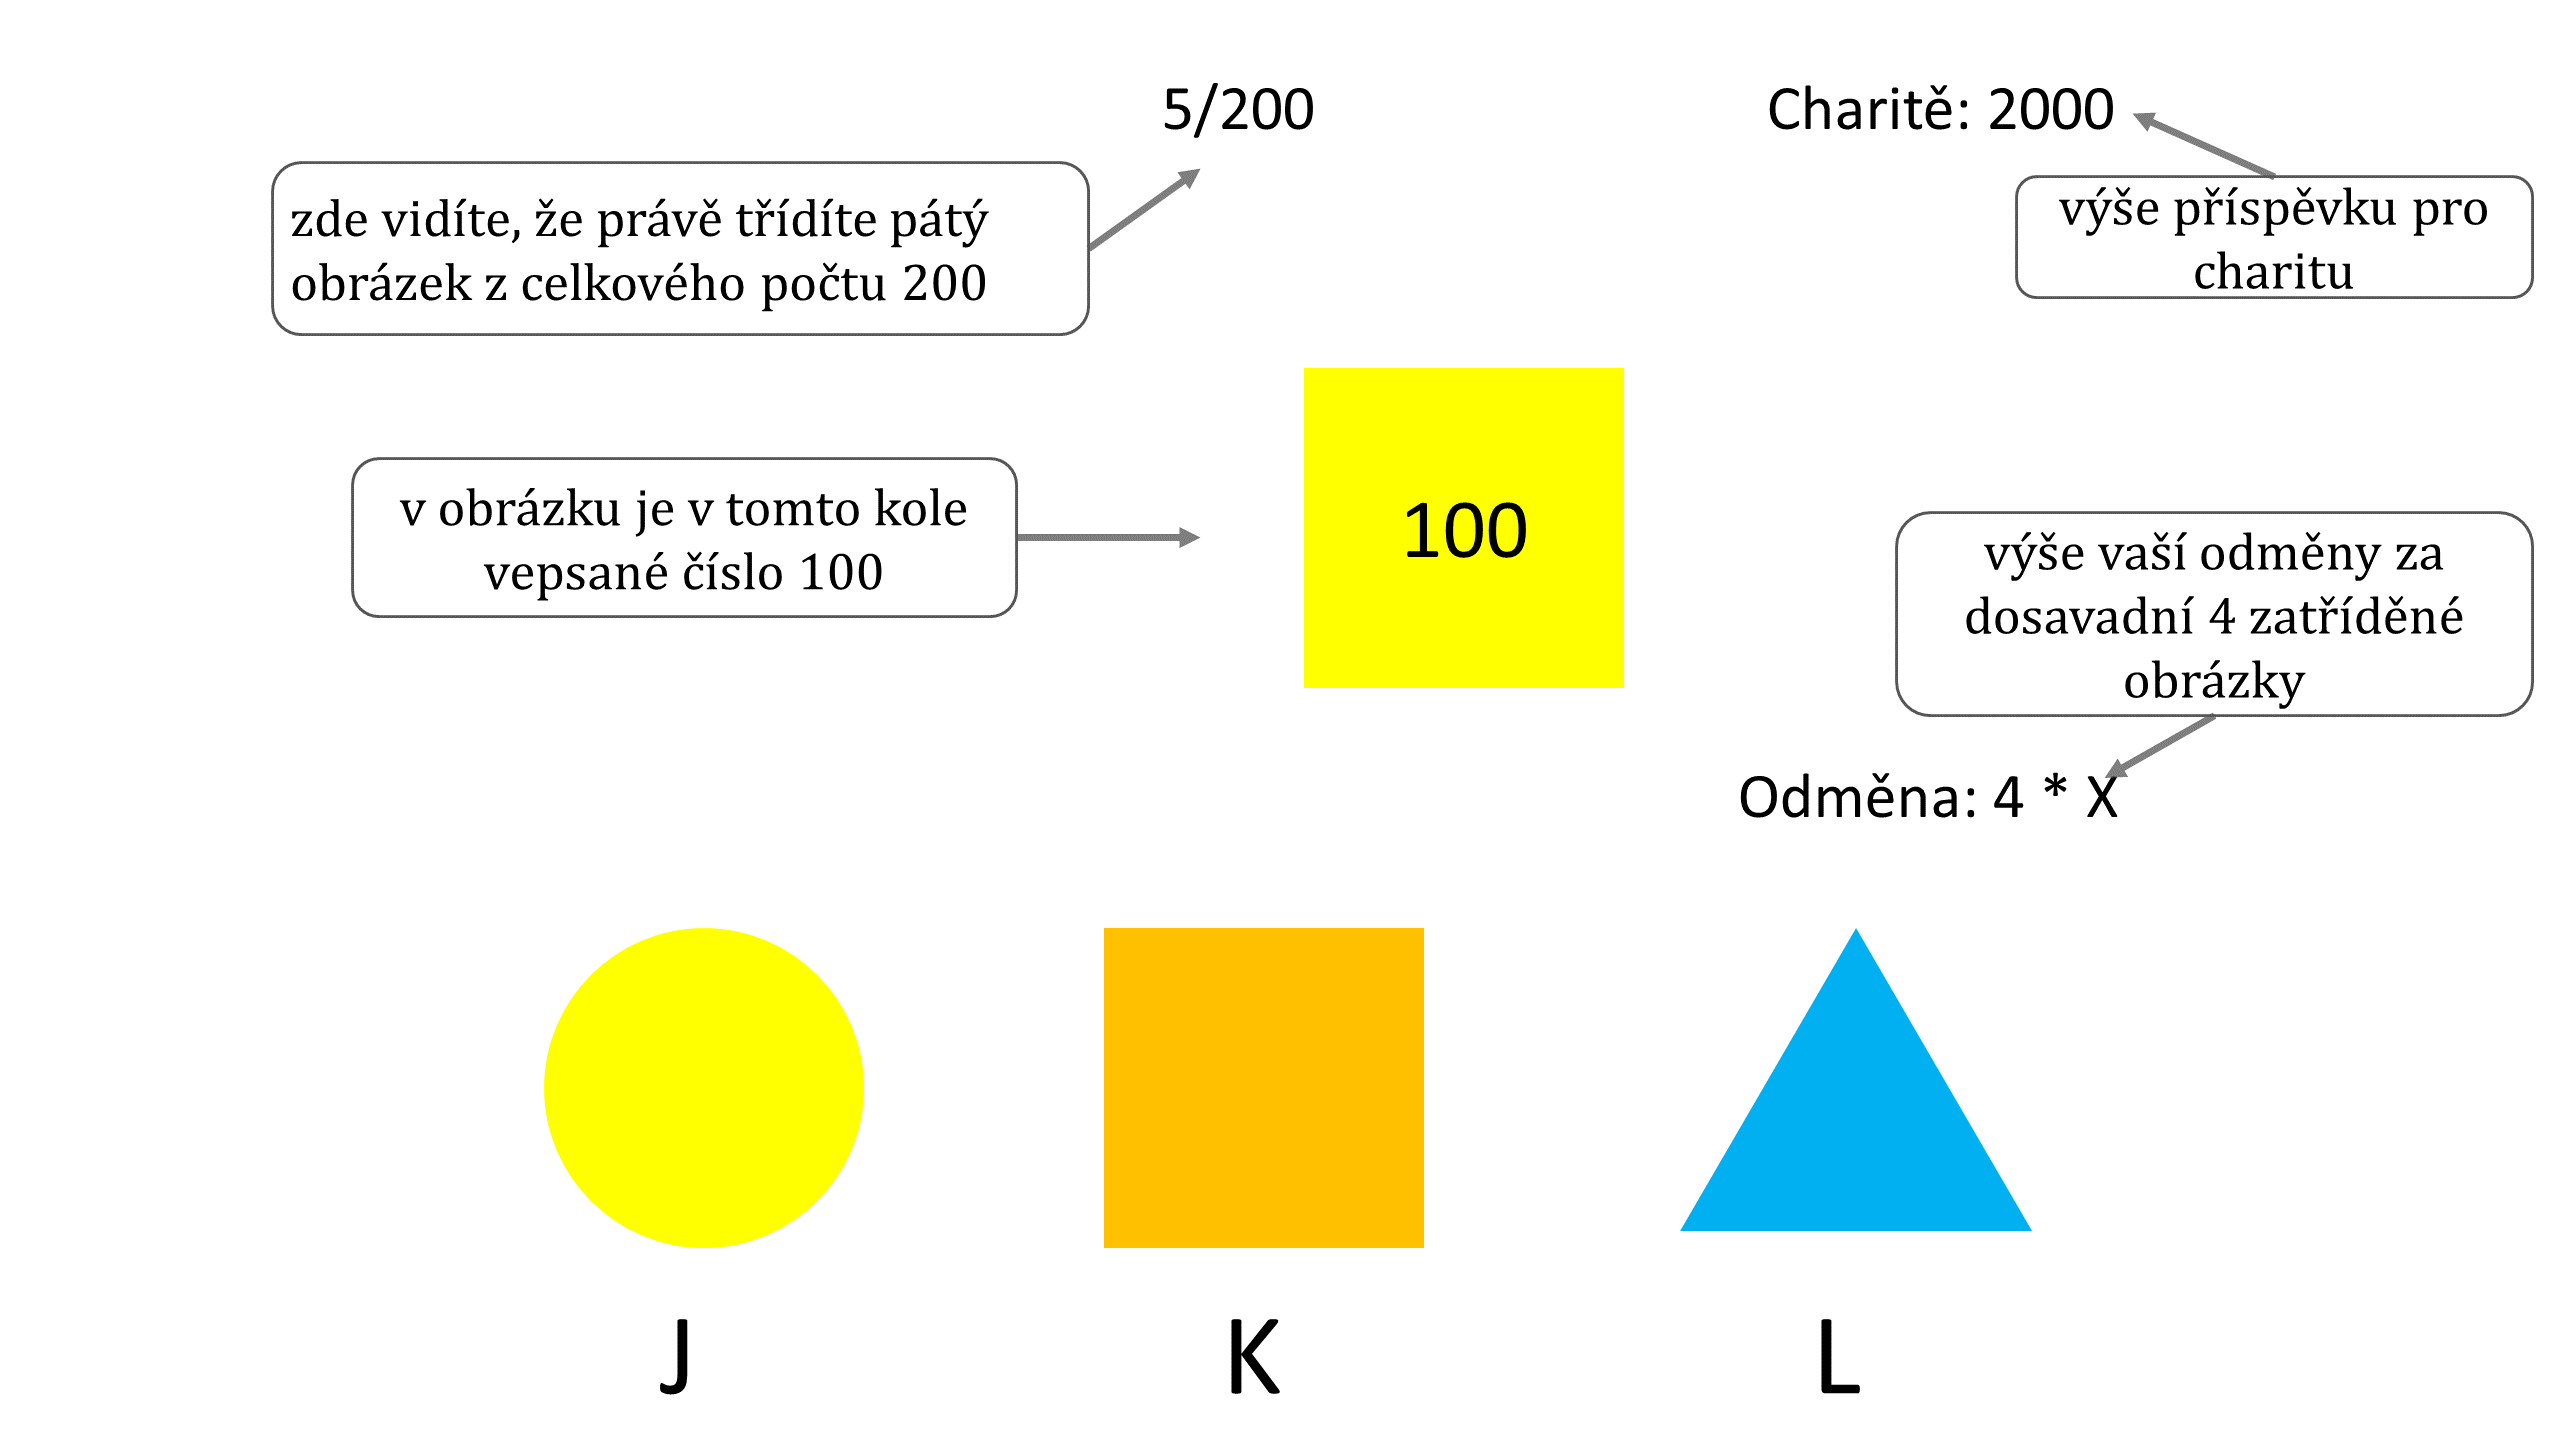
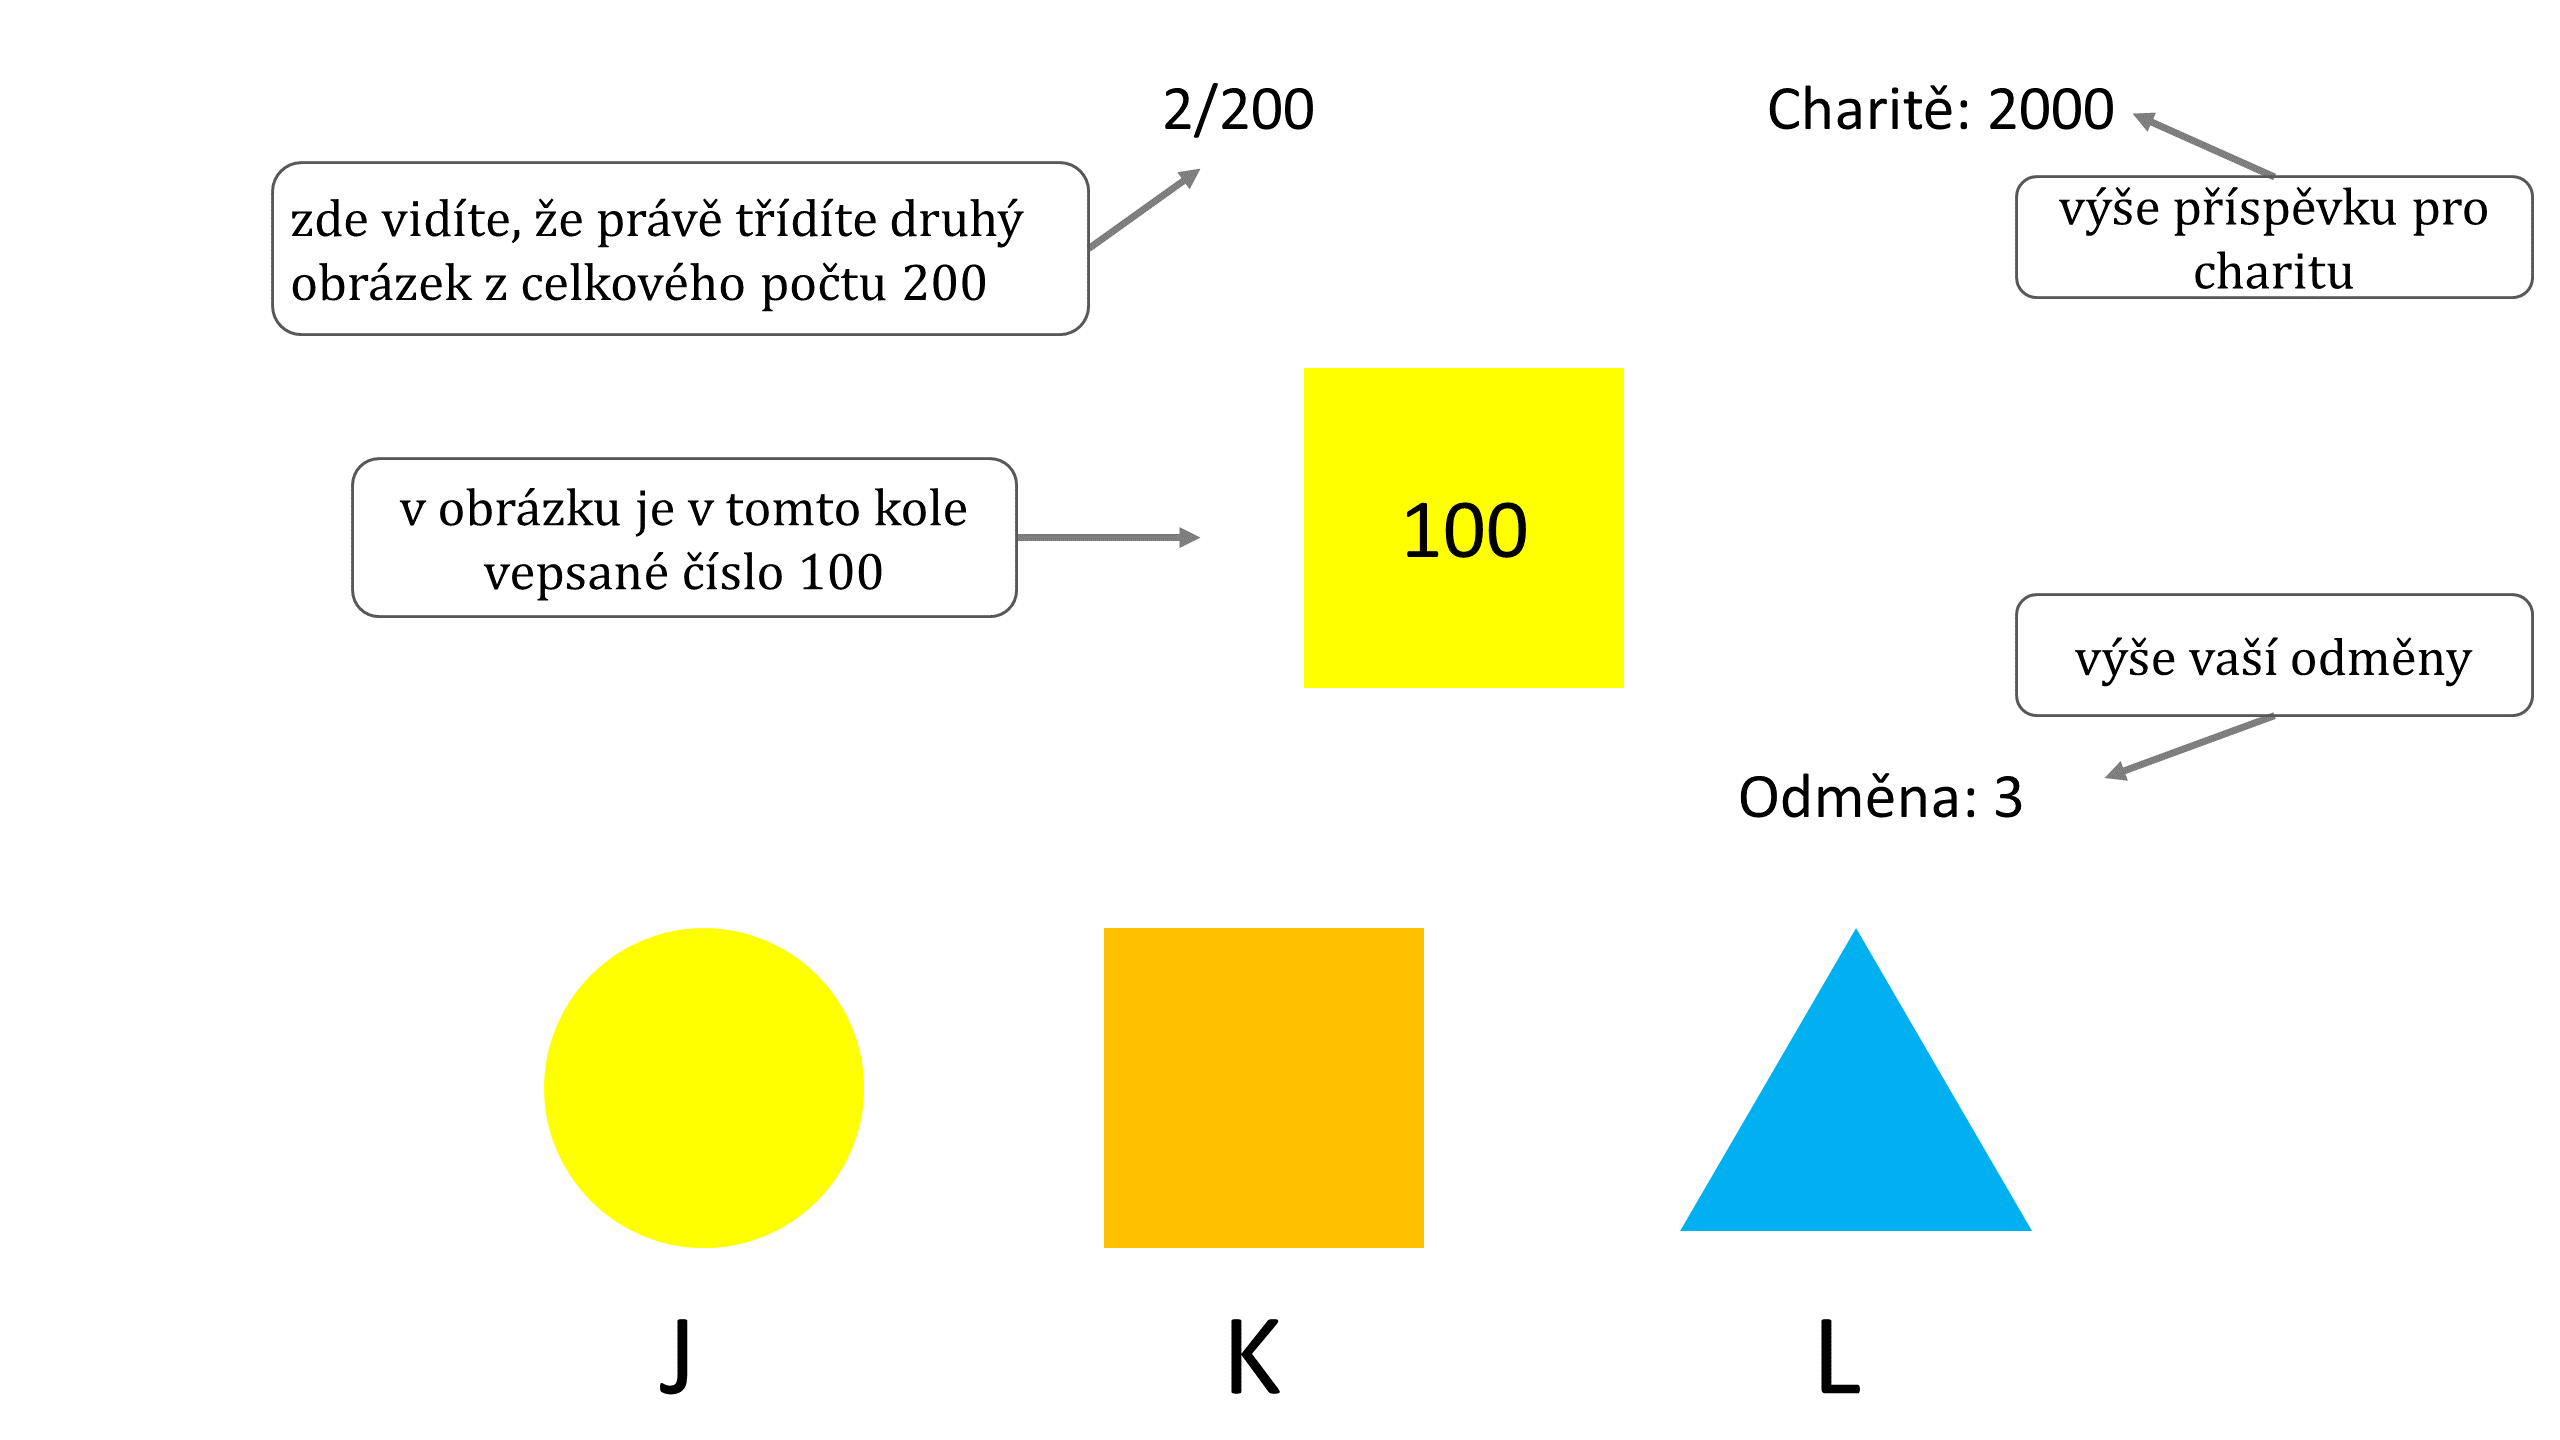
added charity loss highlight

Changed region(s): [[0.75, 0.375, 0.9688, 0.5625], [0.3438, 0.125, 0.4062, 0.1875], [0.4375, 0.0625, 0.4688, 0.0938]]

diff --git a/webexp/webexp/experiment/templates/task.html b/webexp/webexp/experiment/templates/task.html
@@ -238,8 +238,12 @@
             return;
           }
           context.textAlign = "right";
-          context.fillText("Charitě: " + charity.toString(), window.innerWidth - hSize/10, vSize/5);
           context.fillText("Odměna: " + reward.toString(), window.innerWidth - hSize/10, window.innerHeight/2 + vSize/2);
+          if(recentlyLost & cumTime < 1000) {
+            context.fillStyle = "red";
+            context.font = Math.round(hSize/4).toString() + "px Helvetica";;
+          }          
+          context.fillText("Charitě: " + charity.toString(), window.innerWidth - hSize/10, vSize/5);          
         }
 
         var keys = ["j", "k", "l", "J", "K", "L"];
@@ -271,7 +275,10 @@
               mistakeStreak++;
               if(Math.random() < probabilityLoss) {
                 charity -= charityLoss;
-              }                
+                recentlyLost = true;
+              } else {
+                recentlyLost = false;
+              }
               if(isPractice) {
                 previousCorrect = false;
               }
@@ -493,6 +500,7 @@
         var paused = false;
         var pauseNumber = 0;
         var mistakeStreak = 0;
+        var recentlyLost = false;
 
         // initialization
         var canvas = document.getElementById('myCanvas');

diff --git a/webexp/webexp/experiment/views.py b/webexp/webexp/experiment/views.py
@@ -319,16 +319,15 @@ def downloadData(request, table, filename):
 
 sequence = [
     Frame("intro", intro, {}),
-    # Frame("charity", charity, {}),
-    # Frame("instructions1", intro, {}),
-    # Frame("instructions2", intro, {}),
-    # Frame("instructions3", intro, {}),
-    # Frame("task", task, {"practice": 1}),
-    # Frame("instructions4", intro, {}),
-    # Frame("manipulation", intro, {}),
-    # Frame("instructions5", intro, {}),
-    # Frame("instructions6", intro, {}),
-    # Frame("instructions7", intro, {}),
+    Frame("charity", charity, {}),
+    Frame("instructions1", intro, {}),
+    Frame("instructions2", intro, {}),
+    Frame("instructions3", intro, {}),
+    Frame("task", task, {"practice": 1}),
+    Frame("instructions4", intro, {}),
+    Frame("instructions5", intro, {}),
+    Frame("instructions6", intro, {}),
+    Frame("instructions7", intro, {}),
     Frame("instructions8", intro, {}),
     Frame("task", task, {"practice": 0}),
     Frame("account", account, {}),
